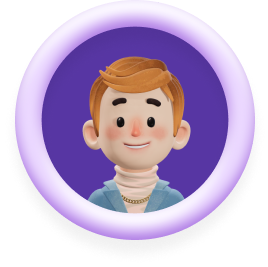
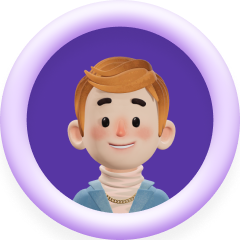
update user image, add statistic json

diff --git a/src/index.css b/src/index.css
@@ -1,4 +1,5 @@
 :root {
+  background-color: black;
 }
 
 @font-face {
